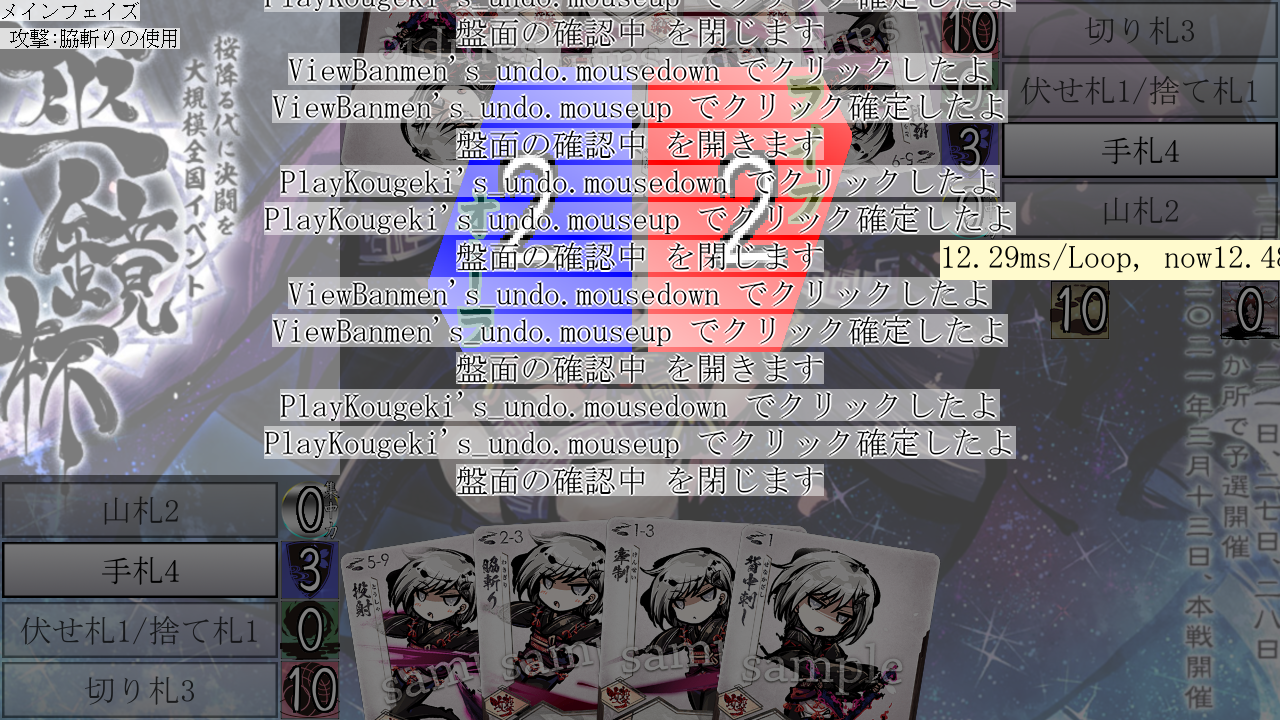
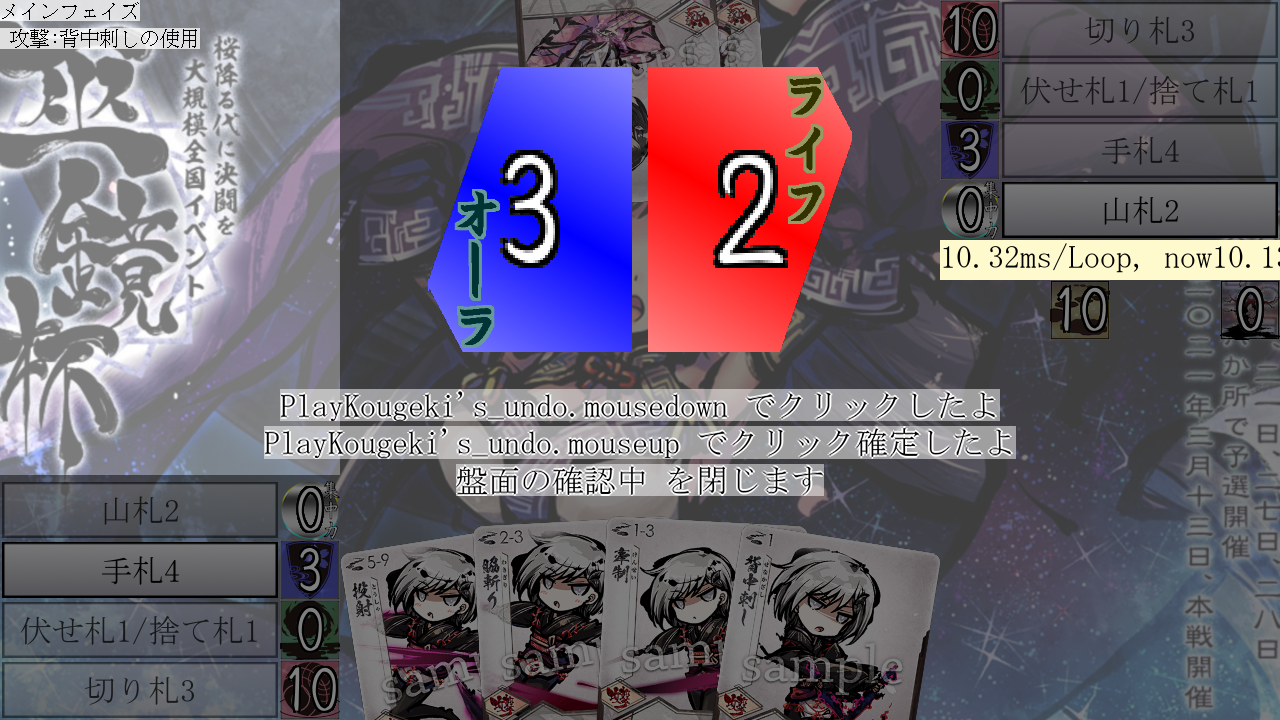
J197:ViewBanmenで盤面が確認できる様に修正

diff --git a/mod/ol/view_banmen.py b/mod/ol/view_banmen.py
@@ -11,7 +11,7 @@ from mod.controller import controller
 from mod.moderator import moderator
 from mod.youso import Youso
 
-_gray_youso = make_undo_youso(text="PlayKougeki")
+_undo_youso = make_undo_youso(text="PlayKougeki")
 
 class ViewBanmen():
     def __init__(self, delivery: Delivery) -> None:
@@ -20,10 +20,10 @@ class ViewBanmen():
         self.delivery = delivery
 
     def elapse(self) -> None:
-        screen.blit(source=IMG_GRAY_LAYER, dest=[0, 0])
+        ...
 
     def get_hover(self) -> Any | None:
-        return _gray_youso
+        return self.delivery.get_hover() or _undo_youso
 
     def open(self) -> None:
         ...

diff --git a/mod/card.py b/mod/card.py
@@ -34,7 +34,7 @@ class Kougeki(Card):
         self.maai_list = maai_list
 
     def attack(self, delivery: Delivery, hoyuusya: int) -> None:
-        popup_message.add(text=f"{self.name}の攻撃です {self.aura_damage(delivery, hoyuusya)}/{self.life_dagage(delivery, hoyuusya)} {self.maai_text(self.maai_list(delivery, hoyuusya))}")
+        popup_message.add(text=f"{self.name}の攻撃です {self.aura_damage(delivery, hoyuusya)}/{self.life_damage(delivery, hoyuusya)} {self.maai_text(self.maai_list(delivery, hoyuusya))}")
 
     def maai_text(self, bool_list: list[bool]) -> str:
         bool_list.append(False)

diff --git a/mod/ol/play_kougeki.py b/mod/ol/play_kougeki.py
@@ -29,8 +29,8 @@ class PlayKougeki():
         self.source_huda = huda
         self.inject_func = huda.delivery.inject_view
         self.delivery = huda.delivery
-        self.taiou_taba: Taba = []
-        self.uke_taba: Taba = []
+        self.taiou_taba: Taba = Taba()
+        self.uke_taba: Taba = Taba()
 
     def elapse(self) -> None:
         screen.blit(source=IMG_GRAY_LAYER, dest=[0, 0])
